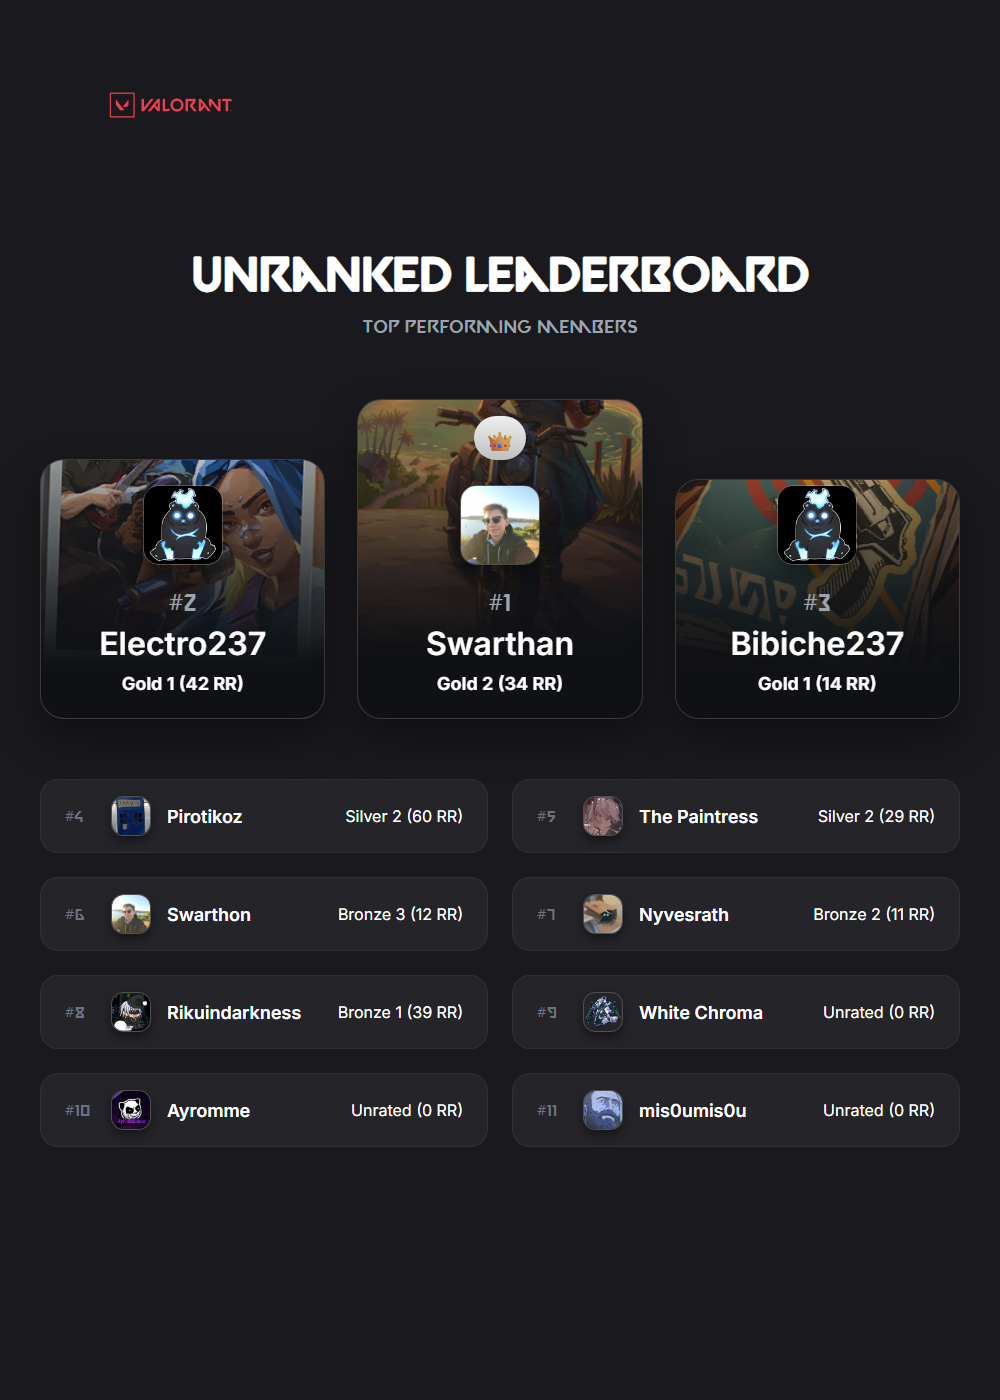
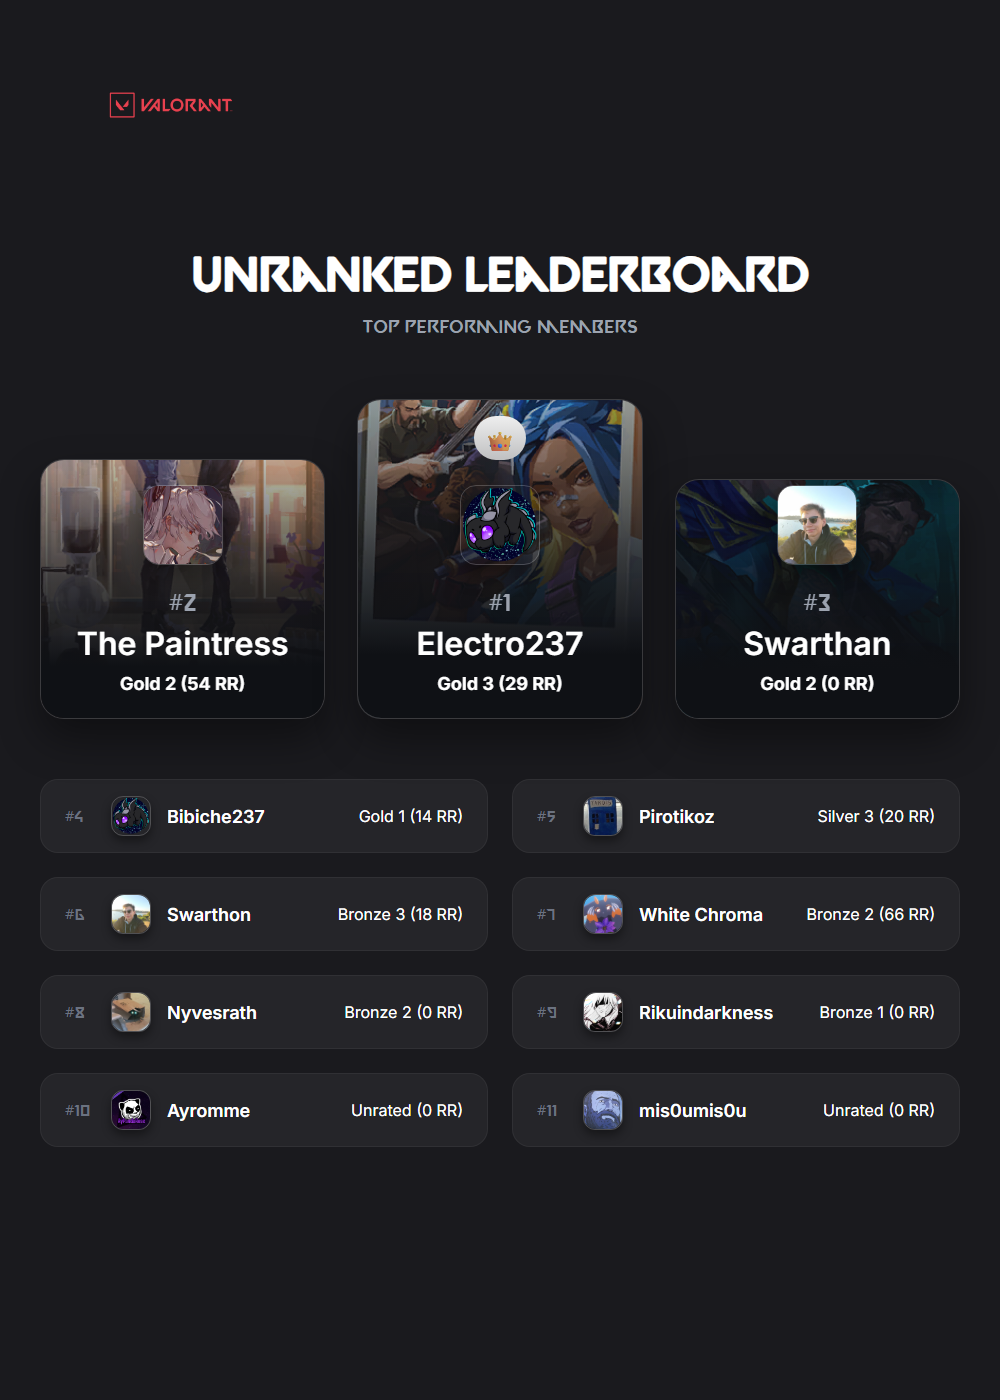
update gitignore

diff --git a/rendered/leaderboard_render.html b/rendered/leaderboard_render.html
@@ -21,35 +21,35 @@
     <div class="podium">
       <!-- Second -->
       <div class="podium-card second">
-        <img class="banner" src="https://media.valorant-api.com/playercards/553036bd-4c0d-0745-f695-f882c5f5bf4a/largeart.png" alt="">
+        <img class="banner" src="https://media.valorant-api.com/playercards/e98546c6-49a2-d74f-6a5a-8286d34a1b03/largeart.png" alt="">
         <div class="podium-content">
-          <img class="avatar" src="https://cdn.discordapp.com/avatars/290918846972559360/cad5463536591ccc88b2e14c71626973.png?size=1024" alt="">
+          <img class="avatar" src="https://cdn.discordapp.com/guilds/294954563923083265/users/422156168325103618/avatars/cb54f59f32e09432a477e7fc2878c8a8.png?size=1024" alt="">
           <div class="rank">#2</div>
-          <div class="name">Electro237</div>
-          <div class="score">Gold 1 (42 RR)</div>
+          <div class="name">The Paintress</div>
+          <div class="score">Gold 2 (54 RR)</div>
         </div>
       </div>
 
       <!-- First -->
       <div class="podium-card first">
-        <img class="banner" src="https://media.valorant-api.com/playercards/7f2bd62c-452b-0621-7a07-e98ae0b67f71/largeart.png" alt="">
+        <img class="banner" src="https://media.valorant-api.com/playercards/553036bd-4c0d-0745-f695-f882c5f5bf4a/largeart.png" alt="">
         <div class="crown">👑</div>
         <div class="podium-content">
-          <img class="avatar" src="https://cdn.discordapp.com/avatars/291973344662781952/750305a47a86cee46cfab1f1c7429d31.png?size=1024" alt="">
+          <img class="avatar" src="https://cdn.discordapp.com/avatars/290918846972559360/c2d99a5b45f9d6ec0f6e70967de220d4.png?size=1024" alt="">
           <div class="rank">#1</div>
-          <div class="name">Swarthan</div>
-          <div class="score">Gold 2 (34 RR)</div>
+          <div class="name">Electro237</div>
+          <div class="score">Gold 3 (29 RR)</div>
         </div>
       </div>
 
       <!-- Third -->
       <div class="podium-card third">
-        <img class="banner" src="https://media.valorant-api.com/playercards/52b6d3bd-45ea-39d1-7306-42b2ce35efb6/largeart.png" alt="">
+        <img class="banner" src="https://media.valorant-api.com/playercards/a8880f4d-46d0-67ea-9013-4f9b757b3794/largeart.png" alt="">
         <div class="podium-content">
-          <img class="avatar" src="https://cdn.discordapp.com/avatars/290918846972559360/cad5463536591ccc88b2e14c71626973.png?size=1024" alt="">
+          <img class="avatar" src="https://cdn.discordapp.com/avatars/291973344662781952/750305a47a86cee46cfab1f1c7429d31.png?size=1024" alt="">
           <div class="rank">#3</div>
-          <div class="name">Bibiche237</div>
-          <div class="score">Gold 1 (14 RR)</div>
+          <div class="name">Swarthan</div>
+          <div class="score">Gold 2 (0 RR)</div>
         </div>
       </div>
     </div>
@@ -59,19 +59,19 @@
       <div class="list-card">
         <div class="list-left">
           <div class="list-rank">#4</div>
-          <div class="list-avatar"><img src="https://cdn.discordapp.com/avatars/221659694547206144/953239efc2f548aea18bf562d7377cd2.png?size=1024" alt="Avatar"></div>
-          <div class="list-name">Pirotikoz</div>
+          <div class="list-avatar"><img src="https://cdn.discordapp.com/avatars/290918846972559360/c2d99a5b45f9d6ec0f6e70967de220d4.png?size=1024" alt="Avatar"></div>
+          <div class="list-name">Bibiche237</div>
         </div>
-        <div class="list-score">Silver 2 (60 RR)</div>
+        <div class="list-score">Gold 1 (14 RR)</div>
       </div>
         
       <div class="list-card">
         <div class="list-left">
           <div class="list-rank">#5</div>
-          <div class="list-avatar"><img src="https://cdn.discordapp.com/guilds/294954563923083265/users/422156168325103618/avatars/cb54f59f32e09432a477e7fc2878c8a8.png?size=1024" alt="Avatar"></div>
-          <div class="list-name">The Paintress</div>
+          <div class="list-avatar"><img src="https://cdn.discordapp.com/avatars/221659694547206144/953239efc2f548aea18bf562d7377cd2.png?size=1024" alt="Avatar"></div>
+          <div class="list-name">Pirotikoz</div>
         </div>
-        <div class="list-score">Silver 2 (29 RR)</div>
+        <div class="list-score">Silver 3 (20 RR)</div>
       </div>
         
       <div class="list-card">
@@ -80,34 +80,34 @@
           <div class="list-avatar"><img src="https://cdn.discordapp.com/avatars/291973344662781952/750305a47a86cee46cfab1f1c7429d31.png?size=1024" alt="Avatar"></div>
           <div class="list-name">Swarthon</div>
         </div>
-        <div class="list-score">Bronze 3 (12 RR)</div>
+        <div class="list-score">Bronze 3 (18 RR)</div>
       </div>
         
       <div class="list-card">
         <div class="list-left">
           <div class="list-rank">#7</div>
-          <div class="list-avatar"><img src="https://cdn.discordapp.com/avatars/221658647862837248/5e333cd0753c2c14a19565b81b8725c4.png?size=1024" alt="Avatar"></div>
-          <div class="list-name">Nyvesrath</div>
+          <div class="list-avatar"><img src="https://cdn.discordapp.com/avatars/295236862207852544/dfc60cf7da889dadba220bc75edc7b57.png?size=1024" alt="Avatar"></div>
+          <div class="list-name">White Chroma</div>
         </div>
-        <div class="list-score">Bronze 2 (11 RR)</div>
+        <div class="list-score">Bronze 2 (66 RR)</div>
       </div>
         
       <div class="list-card">
         <div class="list-left">
           <div class="list-rank">#8</div>
-          <div class="list-avatar"><img src="https://cdn.discordapp.com/avatars/297066540371673088/4b981925e159602e824b08ee21161265.png?size=1024" alt="Avatar"></div>
-          <div class="list-name">Rikuindarkness</div>
+          <div class="list-avatar"><img src="https://cdn.discordapp.com/avatars/221658647862837248/5e333cd0753c2c14a19565b81b8725c4.png?size=1024" alt="Avatar"></div>
+          <div class="list-name">Nyvesrath</div>
         </div>
-        <div class="list-score">Bronze 1 (39 RR)</div>
+        <div class="list-score">Bronze 2 (0 RR)</div>
       </div>
         
       <div class="list-card">
         <div class="list-left">
           <div class="list-rank">#9</div>
-          <div class="list-avatar"><img src="https://cdn.discordapp.com/avatars/295236862207852544/7de74cd765cb6cab5ca501f86dc6343e.png?size=1024" alt="Avatar"></div>
-          <div class="list-name">White Chroma</div>
+          <div class="list-avatar"><img src="https://cdn.discordapp.com/avatars/297066540371673088/c4830e84c9357849f13adad08e7cdc08.png?size=1024" alt="Avatar"></div>
+          <div class="list-name">Rikuindarkness</div>
         </div>
-        <div class="list-score">Unrated (0 RR)</div>
+        <div class="list-score">Bronze 1 (0 RR)</div>
       </div>
         
       <div class="list-card">
